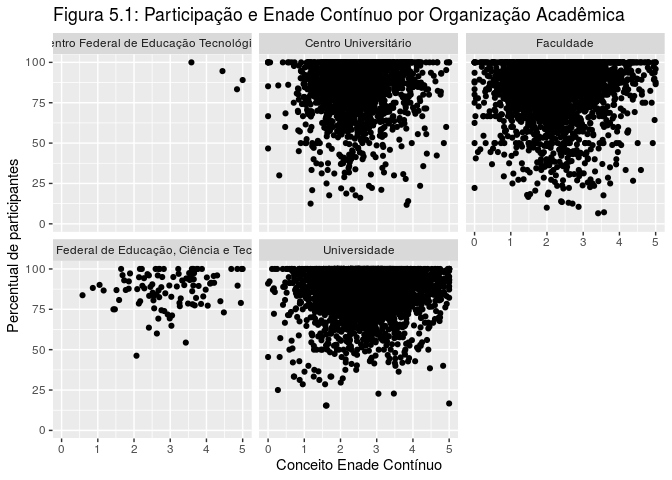
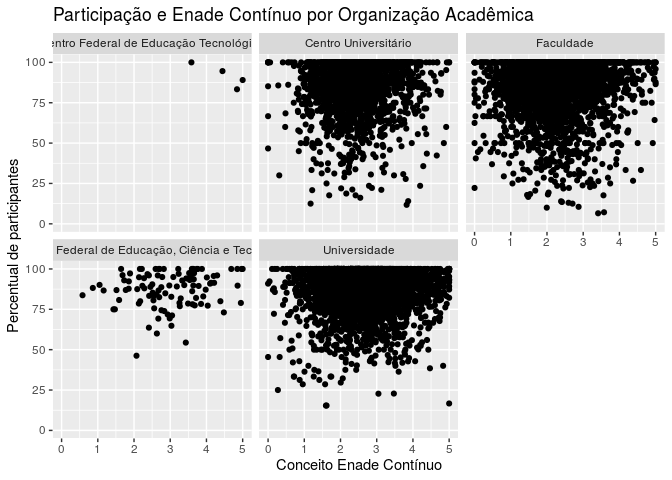
Resolve a pergunta 2 e faz algumas alterações no texto

Changed region(s): [[0.0938, 0.0, 0.9375, 0.0625]]

diff --git a/hw99-analise-viz-dados-grupo08.md b/hw99-analise-viz-dados-grupo08.md
@@ -46,12 +46,6 @@ o qual abarca cursos das seguintes áreas de conhecimento:
 
 (INEP, 2019)
 
-Além disso, a presente base de dados fornece informações que abarcam a
-área de avaliação, o nome da Instituição de Ensino Superior (IES), o
-município do curso, a organização acadêmica, o Conceito Enade Faixa,
-dentre outras importantes dimensões e métricas para a conformação do
-panorama de qualidade do Ensino Superior no Brasil.
-
 Vale ressaltar os parâmetros de conversão da nota dos concluintes no
 Enade do curso de graduação (NCc) em Conceito Enade Faixa:
 
@@ -65,7 +59,33 @@ intervalo 3,945 ≤ NCc ≤ 5 do contínuo.
 
 (INEP, 2018)
 
+Além disso, a presente base de dados fornece informações que abarcam a
+área de avaliação, o nome da Instituição de Ensino Superior (IES), o
+município do curso, a organização acadêmica, o Conceito Enade Faixa,
+dentre outras importantes dimensões e métricas para a conformação do
+panorama de qualidade do Ensino Superior no Brasil.
+
 ### Análise Exploratória
+
+A **primeira pergunta** objetiva verificar qual das diferentes
+organizações acadêmicas observadas possui maior média de Conceito
+Enade Contínuo. Para isso foi construído o gráfico a seguir:
+
+![](hw99-analise-viz-dados-grupo08_files/figure-gfm/organizaçãoacademica-1.png)<!-- -->
+
+Figura 1: Média do Enade Contínuo por organização acadêmica
+
+A partir da visualização acima, percebeu-se que a organização acadêmica
+que possui maior média de Conceito Enade Contínuo é **Centro Federal de
+Educação Tecnológica (aproximamente 4.5)** seguida em ordem descrescente
+dessa mesma média por: Instituto Federal de Educação, Ciência e
+Tecnologia (3); Universidade (2,7); Centro Universitário (2,4);
+Faculdade (2,2).
+
+É importante destacar que as duas primeiras organizações acadêmicas com
+maiores médias apresentam uma quantidade de cursos avaliados bem menor
+que as outras 3 restantes. Isso, ao longo da análise, principalmente na
+pergunta 4, será retratado de modo mais evidente.
 
 A **segunda pergunta** analisada questiona acerca de como se dá a
 distribuição do Conceito Enade (Faixa) para os cursos avaliados da
@@ -92,6 +112,8 @@ a seguir objetiva responder tal questionamento:
 
 ![](hw99-analise-viz-dados-grupo08_files/figure-gfm/pergunta4-1.png)<!-- -->
 
+Figura 4: Percentual de participação e Conceito Enade Faixa
+
 Pode-se observar que essa visualização apresenta alguns problemas, uma
 vez que o Conceito Enade Faixa não envolve números decimais, o que
 acarreta a concentração dos pontos na linha verticalmente. Entretanto,
@@ -109,9 +131,11 @@ Conceito Enade Contínuo como um dos eixos.
 
 ![](hw99-analise-viz-dados-grupo08_files/figure-gfm/pergunta4.1-1.png)<!-- -->
 
+Figura 5: Proporção de participantes e Conceito Enade Contínuo
+
 Nesse gráfico, o que se pode perceber é a maior concentração dos pontos
 entre os Conceitos 1 e 3 e acima do percentual de 75% de participação.
-Dos Conteitos 3 a 4 também há elevada concentração de pontos, porém em
+Dos Conceitos 3 a 4 também há elevada concentração de pontos, porém em
 menor medida comparado ao intervalo de 1 a 3, de modo que uma das razões
 que pode estar relacionada à maior quantidade de pontos estarem entre os
 Conceitos 1 a 3 seria o fato da maioria dos cursos obterem notas nesse
@@ -120,17 +144,33 @@ intervalo do Conceito Enade Contínuo.
 
 ![](hw99-analise-viz-dados-grupo08_files/figure-gfm/pergunra4.2-1.png)<!-- -->
 
+Figura 5.1: Participação e Enade Contínuo por Organização Acadêmica
+
 Esse gráfico também não estava envolvido nas perguntas iniciais, mas
-devido à possibilidade de abordar essa questão e diversos modos, tal
-visualização foi construída. O que se pode perceber a partir dessa dessa
-é que, em geral, faculdade e centro universitário possuem mais pontos em
+devido à possibilidade de abordar essa questão de diversos modos, tal
+visualização foi construída. O que se pode perceber a partir dessa é
+que, em geral, faculdade e centro universitário possuem mais pontos em
 menores percentuais de participação. Vale ressaltar que os Institutos
 Federais de Educação, Ciência e Tecnologia e os Centros Federais de
 Educação Tecnológica existem em menor quantidade comparada às outras
 formas de organização acadêmica além de apresentarem maiores níveis de
-participação, principalmente no caso do segundo.
+participação, principalmente no caso dos segundos.
 
 ### Considerações finais
+
+No âmbito da análise exploratória dos dados, algumas observações,
+limitações e alternativas foram encontradas, de modo que, em cada
+pergunta, objetivou-se permitir as visualizações propostas por meio das
+perguntas bem como extrair informações relevantes com os dados
+disponíveis.
+
+Em relação à pergunta 1, a primeira visualização gerada apresentou
+problemas, uma vez que, com exceção de uma organização acadêmica, as
+outras retornaram NA para a média do Conceito Enade Contínuo. Isso
+aconteceu, provavelmente, devido a células em branco de modo que, por
+meio do summarise, a média não era calculada. Entretanto, foi possível
+resolver essa questão retirando da conta os NAs. Assim foi possível
+apresentar tal visualização.
 
 No dataframe analisado, existem dois cursos com o nome Administração na
 UFMG, diferenciando-se pelos campus em que são ofertados (um em Belo
